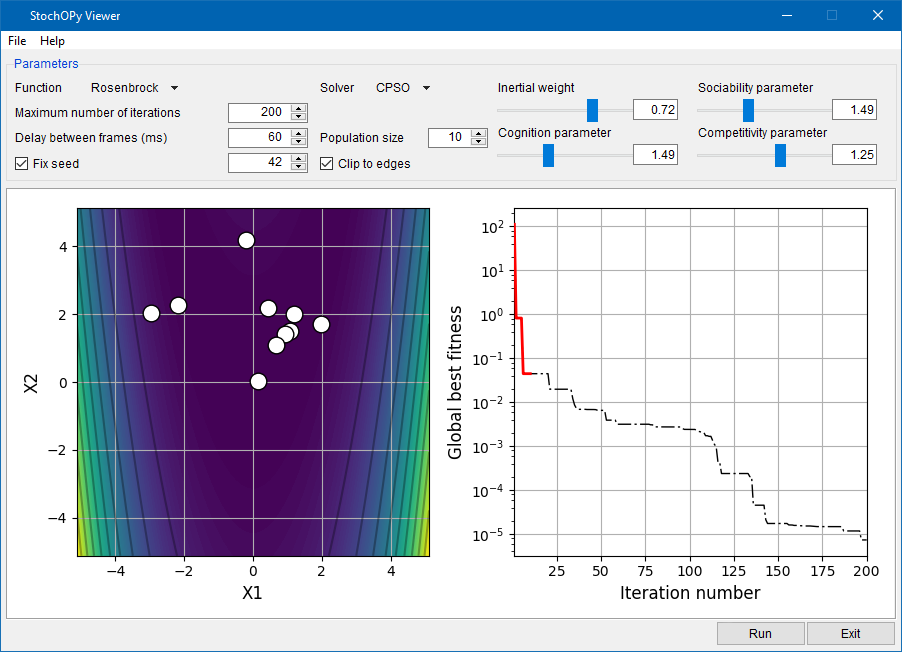
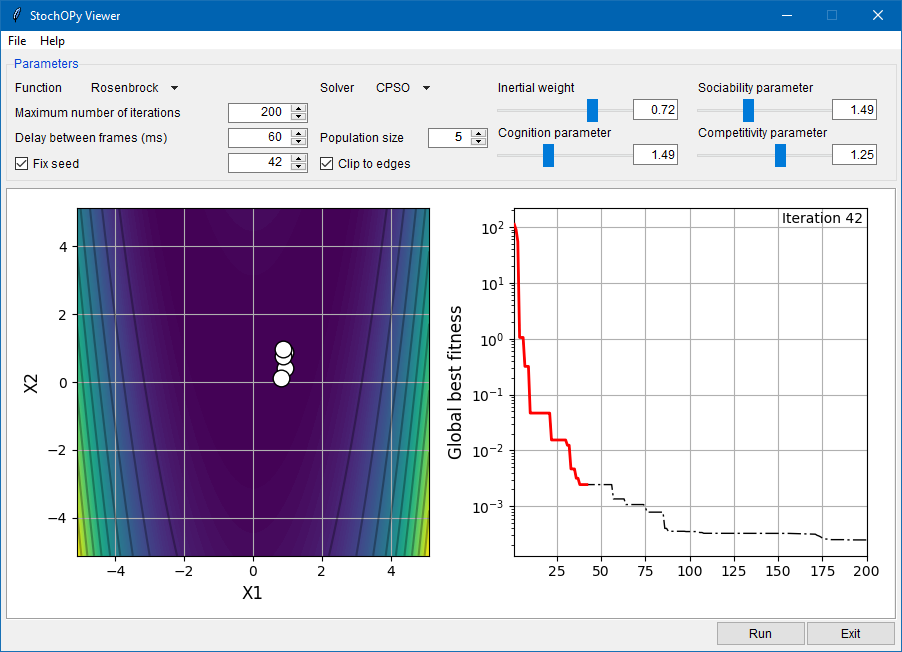
GUI update
- fixed compability with older version of Python 2 and 3
- added iteration/sample display
- added default styles

diff --git a/stochopy/gui/gui.py b/stochopy/gui/gui.py
@@ -8,9 +8,6 @@ Author: Keurfon Luu <keurfon.luu@mines-paristech.fr>
 License: MIT
 """
 
-import matplotlib
-matplotlib.use("TkAgg")
-from matplotlib.backends.backend_tkagg import FigureCanvasTkAgg
 from matplotlib.figure import Figure
 from matplotlib import animation
 
@@ -180,6 +177,8 @@ class StochOGUI():
             popsize_spinbox.place(width = 60, relx = 0, x = 110, y = 0, anchor = "nw")
             
     def frame2(self):
+        from matplotlib.backends.backend_tkagg import FigureCanvasTkAgg
+        
         self.frame2 = ttk.Frame(self.master, borderwidth = 2, relief = "groove")
         self.frame2.place(bordermode = "outside", relwidth = 0.99, relheight = 0.72, relx = 0, rely = 0.22, x = 5, y = 5, anchor = "nw")
         self.frame2.canvas = ttk.Frame(self.frame2, borderwidth = 0)
@@ -334,7 +333,9 @@ class StochOGUI():
         
     def _validate_stepsize(self, val):
         try:
-            self.log_stepsize.set(np.log10(float(val)))
+            val = float(val)
+            if val > 0.:
+                self.log_stepsize.set(np.log10(val))
         except ValueError:
             pass
         return True
@@ -368,17 +369,17 @@ class StochOGUI():
             # Solve
             solver_name = self.solver_name.get().lower()
             if solver_name in [ "hastings", "hamiltonian" ]:
-                self.solver = MonteCarlo(**self.bf.get(),
-                                         max_iter = self.max_iter.get(),
-                                         clip = self.clip.get())
+                self.solver = MonteCarlo(max_iter = self.max_iter.get(),
+                                         clip = bool(self.clip.get()),
+                                         **self.bf.get())
                 self.solver.sample(sampler = solver_name,
                                    stepsize = self.stepsize.get(),
                                    n_leap = self.n_leap.get())
             elif solver_name in [ "cpso", "pso", "de", "cmaes" ]:
-                self.solver = Evolutionary(**self.bf.get(),
-                                           popsize = self.popsize.get(),
+                self.solver = Evolutionary(popsize = self.popsize.get(),
                                            max_iter = self.max_iter.get(),
-                                           clip = self.clip.get())
+                                           clip = bool(self.clip.get()),
+                                           **self.bf.get())
                 self.solver.optimize(solver = solver_name, snap = True,
                                      w = self.w.get(),
                                      c1 = self.c1.get(),
@@ -405,13 +406,11 @@ class StochOGUI():
             func = self._update_monte_carlo
             gfit = self.solver.energy
             linestyle = "--"
-            xlabel = "Sample number"
             ylabel = "Fitness"
         elif self.solver._solver in [ "cpso", "pso", "de", "cmaes" ]:
             func = self._update_evolutionary
             gfit = self._gfit(self.solver.energy)
             linestyle = "none"
-            xlabel = "Iteration number"
             ylabel = "Global best fitness"
         max_iter = len(gfit)
         it = np.linspace(1, max_iter, max_iter)
@@ -424,7 +423,8 @@ class StochOGUI():
                                   marker = "o",
                                   markersize = 12,
                                   markerfacecolor = "white",
-                                  markeredgecolor = "black")
+                                  markeredgecolor = "black",
+                                  animated = True)
         ax2.plot(it, gfit, linestyle = "-.", linewidth = 1, color = "black")
         self.enerplot, = ax2.plot([], [], linestyle = "-", linewidth = 2,
                                   color = "red")
@@ -434,9 +434,12 @@ class StochOGUI():
         ax1.set_ylim(self.bf._lower[1], self.bf._upper[1])
         ax2.set_xlim((1, max_iter))
         ax2.set_yscale(yscale)
-        ax2.set_xlabel(xlabel, fontsize = 12)
         ax2.set_ylabel(ylabel, fontsize = 12)
         ax2.grid(True)
+        self.iter = ax2.text(0.99, 0.99, "", va = "top", ha = "right",
+                             fontsize = 10,
+                             transform = ax2.transAxes,
+                             animated = True)
         
         # Animate
         self.anim_running = True
@@ -452,13 +455,15 @@ class StochOGUI():
         self.scatplot.set_data(models[0,:i], models[1,:i])
         self.enerplot.set_xdata(np.linspace(1, i+1, i+1))
         self.enerplot.set_ydata(gfit[:i+1])
-        return self.scatplot, self.enerplot,
+        self.iter.set_text("Sample %d" % (i+1))
+        return self.scatplot, self.enerplot, self.iter,
     
     def _update_evolutionary(self, i, models, gfit):
         self.scatplot.set_data(models[0,:,i], models[1,:,i])
         self.enerplot.set_xdata(np.linspace(1, i+1, i+1))
         self.enerplot.set_ydata(gfit[:i+1])
-        return self.scatplot, self.enerplot,
+        self.iter.set_text("Iteration %d" % (i+1))
+        return self.scatplot, self.enerplot, self.iter,
     
     def _gfit(self, energy):
         gfit = [ energy[:,0].min() ]
@@ -589,18 +594,18 @@ def main():
     """
     Start StochOPy Viewer window.
     """
-    import tempfile
-    import base64
-    import zlib
-    
-    ICON = zlib.decompress(base64.b64decode('eJxjYGAEQgEBBiDJwZDBy'
-                                            'sAgxsDAoAHEQCEGBQaIOAg4sDIgACMUj4JRMApGwQgF/ykEAFXxQRc='))
-    _, ICON_PATH = tempfile.mkstemp()
-    with open(ICON_PATH, "wb") as icon_file:
-        icon_file.write(ICON)
+    import matplotlib
+    matplotlib.use("TkAgg")
+    from sys import platform as _platform
     
     root = tk.Tk()
     root.resizable(0, 0)
-    root.iconbitmap(default = ICON_PATH)
     StochOGUI(root)
+    s = ttk.Style()
+    if _platform == "win32":
+        s.theme_use("vista")
+    elif _platform in [ "linux", "linux2" ]:
+        s.theme_use("alt")
+    elif _platform == "darwin":
+        s.theme_use("aqua")
     root.mainloop()

diff --git a/stochopy/benchmark_functions.py b/stochopy/benchmark_functions.py
@@ -125,7 +125,7 @@ class BenchmarkFunction:
         return sum1 / 2.0 + 39.16599 * len(x)
     
     def plot(self, nx = 101, ny = 101, n_levels = 10, axes = None,
-             figsize = (8, 8), projection = "2d", cmap = "viridis",
+             figsize = (8, 8), projection = "2d", cmap = None,
              cont_kws = {}, surf_kws = {}):
         """
         Plot the benchmark function in 2-D or 3-D.
@@ -154,6 +154,8 @@ class BenchmarkFunction:
         ax1: matplotlib axes
             Axes used for plot.
         """
+        if cmap is None:
+            cmap = self._set_cmap()
         ax = np.linspace(self._lower[0], self._upper[0], nx)
         ay = np.linspace(self._lower[1], self._upper[1], ny)
         X, Y = np.meshgrid(ax, ay)
@@ -189,3 +191,10 @@ class BenchmarkFunction:
         ax1.set_xlim(self._lower[0], self._upper[0])
         ax1.set_ylim(self._lower[1], self._upper[1])
         return ax1
+    
+    def _set_cmap(self):
+        import matplotlib.cm as cm
+        if hasattr(cm, "viridis"):
+            return "viridis"
+        else:
+            return "jet"

diff --git a/examples/example_plot.py b/examples/example_plot.py
@@ -8,8 +8,6 @@ Author: Keurfon Luu <keurfon.luu@mines-paristech.fr>
 License: MIT
 """
 
-import sys
-sys.path.append("../")
 import matplotlib.pyplot as plt
 try:
     from stochopy import Evolutionary, BenchmarkFunction
@@ -27,7 +25,7 @@ if __name__ == "__main__":
     bf = BenchmarkFunction(func, n_dim = 2)
     
     # Initialize solver
-    ea = Evolutionary(**bf.get(), popsize = 5, max_iter = 200)
+    ea = Evolutionary(popsize = 5, max_iter = 200, **bf.get())
     
     # Solve
     xopt, gfit = ea.optimize(solver = "cpso", snap = True)

diff --git a/stochopy/evolutionary_algorithm.py b/stochopy/evolutionary_algorithm.py
@@ -652,7 +652,7 @@ class Evolutionary:
                 
             # Handle boundaries by penalizing fitness
             # Get delta fitness values
-            perc = np.percentile(arfitness, [ 25, 75 ], interpolation = "midpoint")
+            perc = np.percentile(arfitness, [ 25, 75 ])
             delta = ( perc[1] - perc[0] ) / self._n_dim / np.mean(np.diag(C)) / sigma**2
             
             # Catch non-sensible values

diff --git a/setup.py b/setup.py
@@ -11,7 +11,8 @@ AUTHOR_EMAIL = "keurfon.luu@mines-paristech.fr"
 URL = "https://github.com/keurfonluu/stochopy"
 LICENSE = "MIT License"
 REQUIREMENTS = [
-    "numpy >= 1.9.0",
+    "numpy",
+    "matplotlib",
 ]
 CLASSIFIERS = [
     "Programming Language :: Python",

diff --git a/stochopy/__init__.py b/stochopy/__init__.py
@@ -14,4 +14,4 @@ from .benchmark_functions import BenchmarkFunction
 from .gui import StochOGUI
 
 __all__ = [ "MonteCarlo", "Evolutionary", "BenchmarkFunction", "StochOGUI" ]
-__version__ = "1.3.1"
+__version__ = "1.3.2"

diff --git a/README.rst b/README.rst
@@ -7,7 +7,7 @@ StochOPy
 StochOPy (STOCHastic OPtimization for PYthon) provides user-friendly routines
 to sample or optimize objective functions with the most popular algorithms.
 
-:Version: 1.3.1
+:Version: 1.3.2
 :Author: Keurfon Luu
 :Web site: https://github.com/keurfonluu/stochopy
 :Copyright: This document has been placed in the public domain.
@@ -53,6 +53,16 @@ Otherwise, download and extract the package, then run:
 
 Usage
 =====
+
+**New in 1.3.0**: run StochOPy Viewer to see how popular stochastic algorithm
+work, and play with the tuning parameters on several benchmark functions.
+
+.. code-block:: python
+
+  from stochopy.gui import main
+  
+  main()
+  
 
 First, import StochOPy and define an objective function (here Rosenbrock):
 
@@ -104,16 +114,6 @@ Optimization is just as easy:
     xopt, gfit = ea.optimize(solver = "cmaes")
     print(xopt)
     print(gfit)
-
-
-**New in 1.3.0**: Run StochOPy Viewer to see how popular stochastic algorithm
-work, and play with the tuning parameters on several benchmark functions.
-
-.. code-block:: python
-
-  from stochopy.gui import main
-  
-  main()
     
     
 Related works
